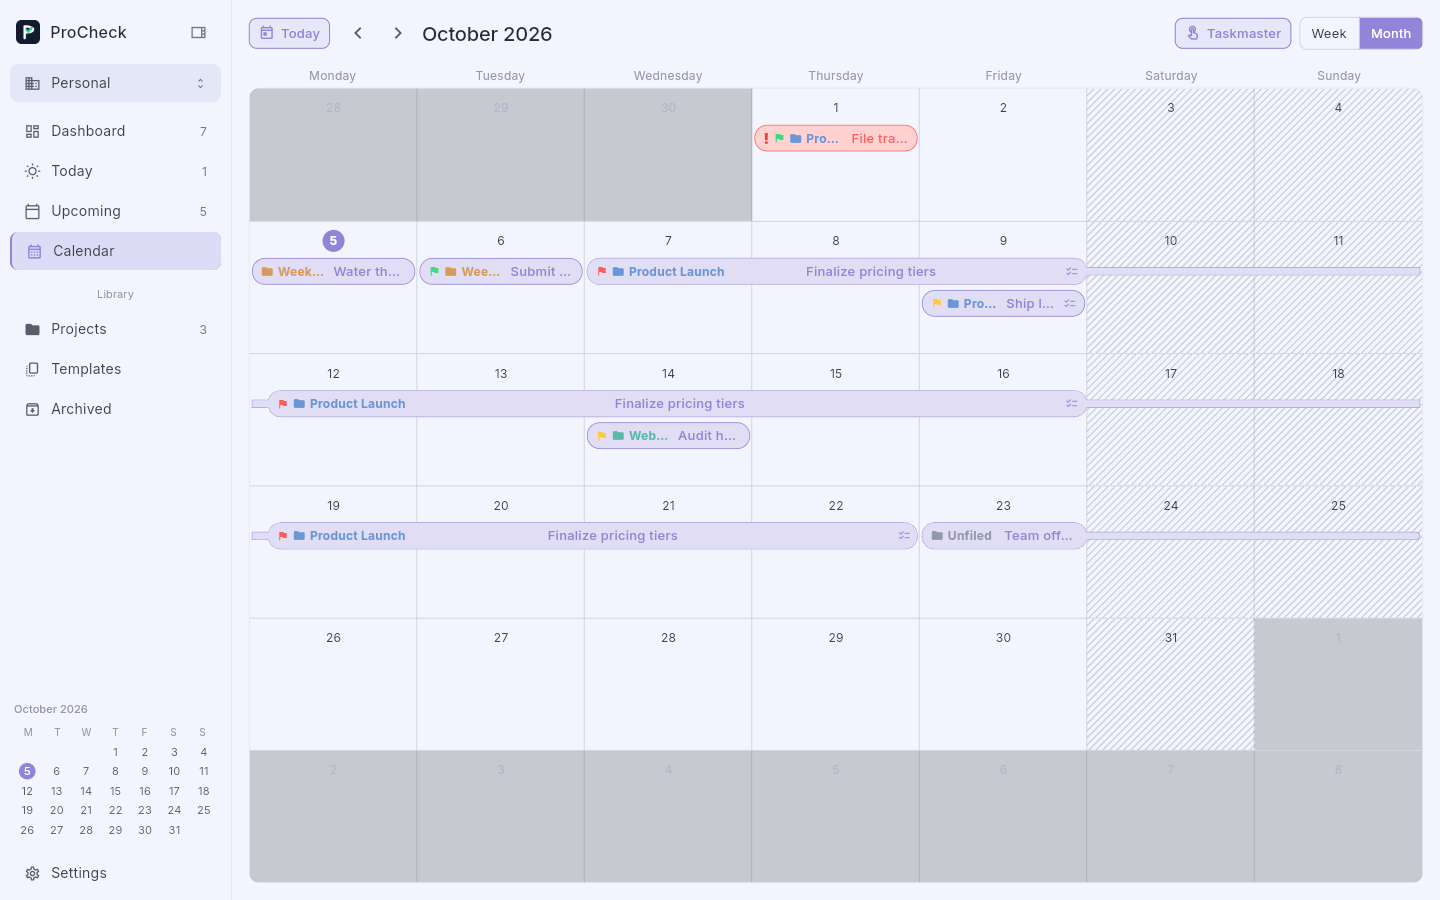
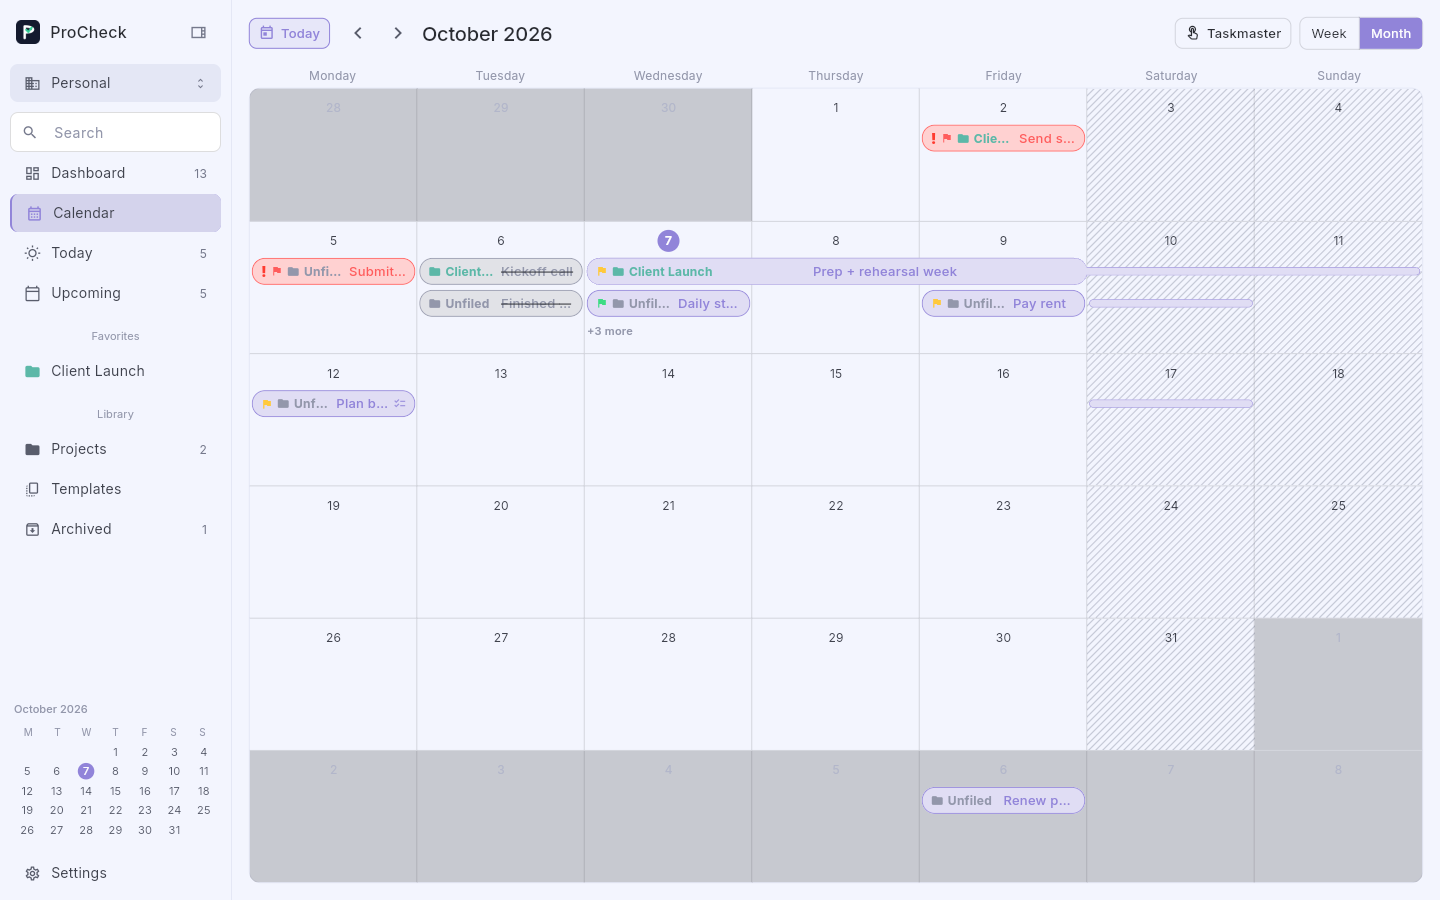
Refresh README screenshots and clean up dead code
Re-capture the dashboard, calendar, and project-detail screenshots from
the current app so the README reflects what ProCheck actually looks like
today, and drop the five screenshot files the README no longer embeds
(archived, color-picker, projects, settings, templates) left over from an
earlier, more expansive README.

Also remove lib/widgets/page_transitions.dart, a slide/fade page-transition
helper that nothing imports anymore, and fix the "Load test data?" confirm
dialog's copy, which still mentioned seeding recurring tasks after that
feature was removed.

Guard the macOS and Windows release workflows so a push to main only
publishes a GitHub Release when the pubspec-derived tag doesn't already
exist, so routine pushes like this one don't re-publish/overwrite the
v1.0.0 release assets.

Claude-Session: https://claude.ai/code/session_018FrbHgi4G1qR6eTeHhvK8s

diff --git a/lib/screens/settings_screen.dart b/lib/screens/settings_screen.dart
@@ -497,8 +497,8 @@ class _BackupCard extends ConsumerWidget {
       message:
           'This replaces every project and task currently in ProCheck with '
           'a small dataset for testing (projects, subtasks, due dates, a '
-          'multi-day task, completed items, an archived project, and a few '
-          'recurring tasks). This cannot be undone.',
+          'multi-day task, completed items, and an archived project). This '
+          'cannot be undone.',
       confirmLabel: 'Load test data',
     );
     if (!confirmed) return;
